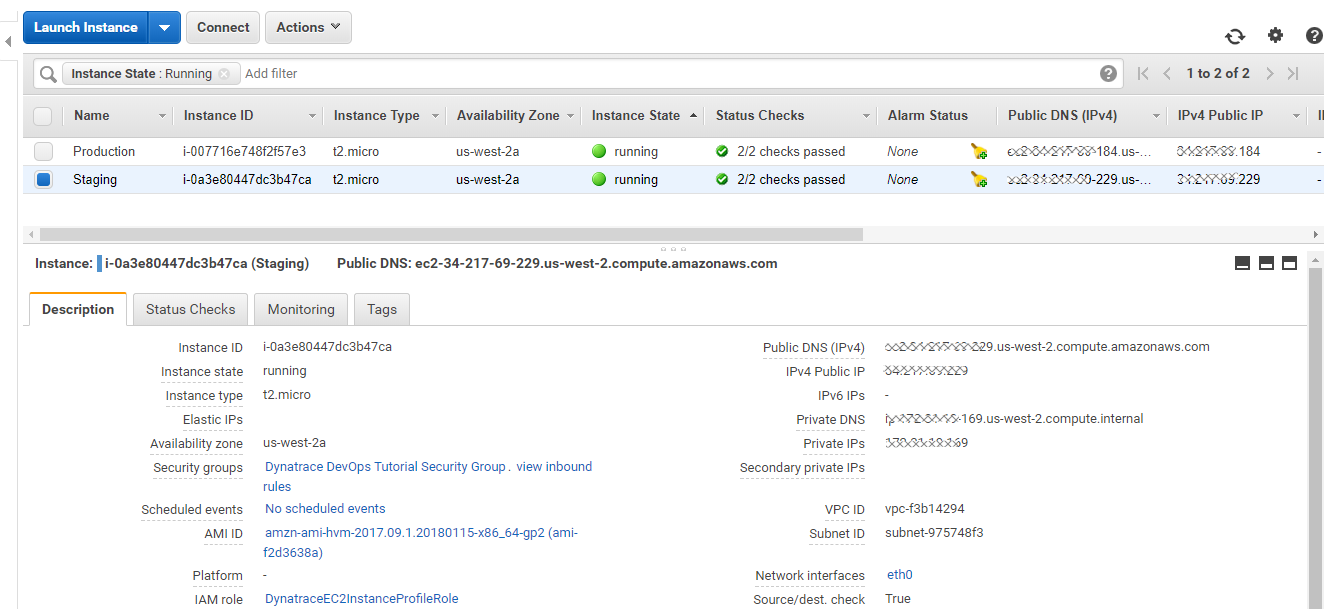
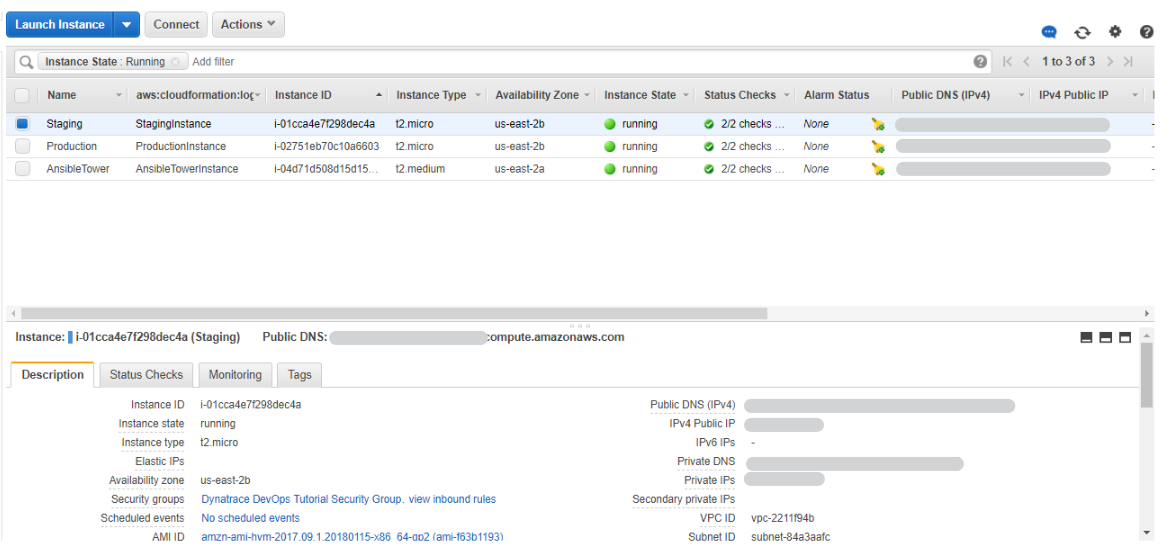
updated readme to include ansible tower

diff --git a/README.md b/README.md
@@ -33,20 +33,21 @@ As we are going to use AWS CodeDeploy, AWS CodePipeline, AWS Lambda, DynamoDB, A
 1.1. To learn more about Key Pairs and how to connect to EC2 Instances for troubleshooting read [Connect to your Linux Instance](https://docs.aws.amazon.com/AWSEC2/latest/UserGuide/AccessingInstances.html)
 2. Create a S3 Bucket with the naming scheme: <yourname>-dynatracedevops and enable versioning. See following screenshots for reference
 ![](./images/preparation_creates3bucket.png)
-3. Copy the content from the folder "copytos3" to your newly created S3 bucket. This includes the application package, tests, monspec as well as all Lambda functions
+3. Copy the content from the folder "copytos3" to your newly created S3 bucket. This includes the application package, tests, monspec, Ansible Tower license, Ansible playbook as well as all Lambda functions
 ![](./images/preparation_copytos3.png)
 - TODO: update image: with license and playbook file
 
 **Dynatrace**
 
 We need a couple of things to launch the CloudFormation Template
-1. Your *Dynatrace Tenant URL*: For SaaS that would be something like http://<yourtenant>.live.dynatrace.com. For Managed it would be http://<yourserver>/e/<your-env-id>
-2. Your *Dynatrace OneAgent for Linux Download URL*: Go to Deploy Dynatrace -> Start Installation -> Linux and copy the URL within the quotes as shown below:
+1. Your *Dynatrace Tenant ID*
+2. Your *Dynatrace Tenant URL*: For SaaS that would be something like http://`<yourtenant>`.live.dynatrace.com. For Managed it would be http://`<yourserver>`/e/`<your-env-id>`
+3. Your *Dynatrace OneAgent for Linux Download URL*: Go to Deploy Dynatrace -> Start Installation -> Linux and copy the URL within the quotes as shown below:
 ![](./images/preparation_dynatraceoneagenturl.png)
-3. A *Dynatrace API Token*: Go to Settings -> Integration -> Dynatrace API and create a new Token
+4. A *Dynatrace API Token*: Go to Settings -> Integration -> Dynatrace API and create a new Token
 ![](./images/preparation_dynatraceapitoken.png)
 
-**(optional)Setup Dynatrace AWS CloudWatch Monitoring)**
+**(optional) Setup Dynatrace AWS CloudWatch Monitoring**
 
 Dynatrace has a built-in feature to pull in metrics and metadata (e.g: tags ) from CloudWatch. You can setup this integration as explained in the documentation: [How do I start Amazon Web Services monitoring?](https://www.dynatrace.com/support/help/cloud-platforms/amazon-web-services/how-do-i-start-amazon-web-services-monitoring/)
 
@@ -74,8 +75,6 @@ Region | Launch Template
 ### Step 2: Define all your input parameters
 ![](./images/createstack_step2.png)
 
-- TODO update screenshot
-
 ### Step 3: Click through all other wizard steps. Confirm the box and click CREATE
 ![](./images/createstack_step3.png)
 
@@ -86,14 +85,11 @@ Region | Launch Template
 There is a lot of useful information here, e.g: the PublicDNS of the two EC2 Instances that got created and the links to the Public API Gateway we created that allows us to execute some Lambda functions.
 ![](./images/createstack_step5.png)
 
-- TODO: hint for Ansible Tower
 
 ## Lets explore what has been created
 Several things have been created.
 
 ### 2 EC2 Instances: Automatically monitored with Dynatrace
-
-- TODO hint for ansible
 
 The stack created two EC2 Instances. One for Staging, one that we use for Production. Go to your EC2 Section in the AWS Console and explore them:
 ![](./images/createstack_ec2check1.png)
@@ -120,8 +116,9 @@ pm2 start testapp.js &> pm2start.log
 
 Lets move to Dynatrace and validate that these two EC2 machines are actually monitored. In your Dynatrace Web UI simply go to Hosts - you should see 2 new hosts. If you have the [Dynatrace AWS CloudWatch](https://www.dynatrace.com/support/help/cloud-platforms/amazon-web-services/how-do-i-start-amazon-web-services-monitoring/) integration setup the host name should reflect the actual names Staging and Production. Otherwise it will show up the unique EC2 Instance Name:
 ![](./images/createstack_dynatracehostlist1.png)
+
 **Sanity Check:** 
-If you don't see these two hosts it means something went wrong with the OneAgent installation. Most likely root cause is that you didn't use the correct OneAgent Download Link when creating the CloudFormation stack. In that case. Delete the stack and start all over. Double check that you really copy the correct *Download Link*, *Tenant URL* and *API Token*!
+If you don't see these two hosts (or three in case you also deployed Ansible Tower) it means something went wrong with the OneAgent installation. Most likely root cause is that you didn't use the correct OneAgent Download Link when creating the CloudFormation stack. In that case. Delete the stack and start all over. Double check that you really copy the correct *Download Link*, *Tenant URL* and *API Token*!
 
 When clicking on one of these hosts you can also see that Dynatrace alread does FullStack monitoring of that host. Depending on how far the CodePipeline (that also executed in the background) already executed you may or may not see some additional Node.js processes here. As long as you start seeing any data here you are good :-)
 ![](./images/createstack_dynatracehost1.png)
@@ -327,36 +324,30 @@ Here is a Problem with a comment from the Lambda function indicating that a prev
 
 ### Option 2: Self-Healing with Ansible Tower
 
-While we can use AWS Lambda for auto-remediation purposes, we can also make use of [Ansible](https://www.ansible.com/), which is an automation platform suitable for application deployment, configuration management and orchestration. In our case, we leverage the power of Ansible to automatically run playbooks defined for auto-remediation. In our demo, we are using [Ansible Tower](https://www.ansible.com/products/tower) which provides a REST-API and a web-based UI on top of Ansible. 
+While we can use AWS Lambda for auto-remediation purposes, we can also make use of [Ansible](https://www.ansible.com/), which is an automation platform suitable for application deployment, configuration management and orchestration. We can also leverage the power of Ansible to automatically run playbooks defined for auto-remediation. In our demo, we are using [Ansible Tower](https://www.ansible.com/products/tower) which provides a REST-API and a web-based UI on top of Ansible for easier management and enhanced capabilities. 
 
 ### Dynatrace Problem Notification
-Each time Dynatrace detects a problem, i.e., an issue which affects several users, not only a problem is created in Dynatrace, but also a problem notification ca be sent out to third-party tools. In our case we want to inform Ansible Tower about the problem to trigger counteractions.  
-Therefore, we use the previously set up Alerting Profile and set up the integration with Ansible Tower. In Dynatrace go to Settings - Integration - Problem notifications. 
+Each time Dynatrace detects a problem, i.e., an issue which affects several users, not only a problem is created in Dynatrace, but also a problem notification can be sent out to third-party tools. In our case we want to inform Ansible Tower about the problem in order to trigger counteractions. Therefore, we use the previously set up Alerting Profile and set up the integration with Ansible Tower. In Dynatrace go to Settings - Integration - Problem notifications. 
 Click on "Set up notifications" and select "Ansible Tower".
-Copy the URL from your Ansible Tower job template screen (or the CloudFormation output section) to the corresponding input field. Enter your username and password and insert the following text into the custom message input field:
-
-```
-{ "State":"{State}", "ProblemID":"{ProblemID}", "PID":"{PID}", "ProblemTitle":"{ProblemTitle}", "ImpactedEntities": {ImpactedEntities} }
-```
-
+Copy the URL from your Ansible Tower job template screen (or the CloudFormation output section) to the corresponding input field. Enter your username and password (user = admin, password = dynatrace) of your Ansible Tower installation. 
+You can leave the "Custom Message" input field empty, since the integration already sends all needed problem information along with the notification.
 Finally, select the previously defined Alerting Profile. Before you can save the Problem Notification you first have to send a test notification. Once successful, you can save.
 
 ![Ansible Tower Problem Notification Integration](./images/problemnotificationansible1.png)
 
 #### Self-Healing Ansible Playbook
 
-After setting up the integration, now each time Dynatrace detects a problem, the according playbook configured in the job template is triggered via the REST-API and executed.
+After setting up the integration, now each time Dynatrace detects a problem a notification to Ansible Tower is sent, where the according playbook configured in the job template is triggered and executed.
 The playbook itself consists of several "tasks", i.e., a list of instructions that are executed. In our demo example, the following tasks are defined and executed each time the playbook is triggered:
 
 1. A comment is sent to Dynatrace containing the information that the remediation playbook has started. This is mainly for documentation reasons and will help DevOps to fully understand what was going on at which point in time and how the problem has been solved automatically.
-1. The arguments sent along the REST call are stored in internal variables.
 1. The playbook iterates over all impacted entities and fetches the custom deployment events.
 1. The fetched deployment events are parsed and necessary information is extracted.
 1. The most recent deployment is selected.
-1. The remediation action that is defined for the most recent deployment is called.
+1. The remediation action that is defined for the most recent deployment is called and the problem details are sent as payload.
 1. A success/error comment is pushed to Dynatrace, again to provide full visibility in the automated process.
 
-The full source code of the playbook can be found in `copytos3/playbook.yaml`. 
+The full source code of the playbook can be found in `./copytos3/playbook.yaml`. 
 
 
 #### Inspect Job Template
@@ -373,7 +364,7 @@ You will see that there is already a project "Unbreakable" defined for this tuto
 To inspect the discussed execution of the playbook, select the "Jobs" tab. Here you can find all previously exectued or currently running jobs and can get detailed information about them.
 Click on the last execution of the "deployment-rollback" playbook and your output should be similar to the one in the screenshot:
  
-![Ansible Tower Job Template](./images/problemnotificationansible3.png)
+![Ansible Tower Job Details](./images/problemnotificationansible3.png)
 
 
 
